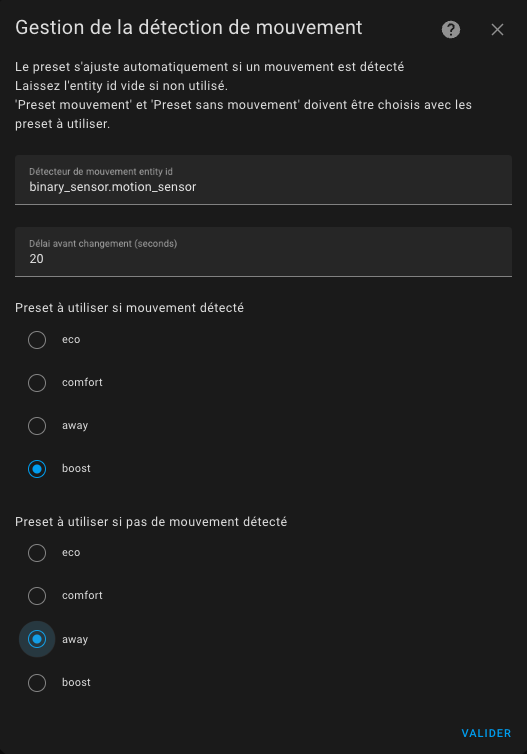
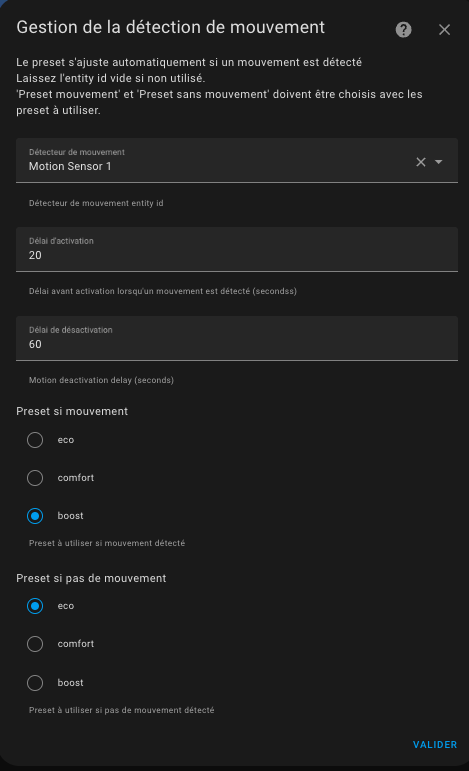
Issue #128 - add motion_off_delay

diff --git a/custom_components/versatile_thermostat/tests/test_movement.py b/custom_components/versatile_thermostat/tests/test_movement.py
@@ -43,10 +43,11 @@ async def test_movement_management_time_not_enough(
             CONF_TPI_COEF_INT: 0.3,
             CONF_TPI_COEF_EXT: 0.01,
             CONF_MINIMAL_ACTIVATION_DELAY: 30,
-            CONF_SECURITY_DELAY_MIN: 5,
+            CONF_SECURITY_DELAY_MIN: 10,
             CONF_SECURITY_MIN_ON_PERCENT: 0.3,
             CONF_MOTION_SENSOR: "binary_sensor.mock_motion_sensor",
-            CONF_MOTION_DELAY: 0,  # important to not been obliged to wait
+            CONF_MOTION_DELAY: 10,  # important to not been obliged to wait
+            CONF_MOTION_OFF_DELAY: 30,
             CONF_MOTION_PRESET: "boost",
             CONF_NO_MOTION_PRESET: "comfort",
             CONF_PRESENCE_SENSOR: "binary_sensor.mock_presence_sensor",
@@ -61,7 +62,7 @@ async def test_movement_management_time_not_enough(
     tz = get_tz(hass)  # pylint: disable=invalid-name
     now: datetime = datetime.now(tz=tz)
 
-    # start heating, in boost mode. We block the control_heating to avoid running a cycle
+    # start heating, in boost mode, when someone is present. We block the control_heating to avoid running a cycle
     with patch(
         "custom_components.versatile_thermostat.climate.VersatileThermostat._async_control_heating"
     ):
@@ -75,14 +76,14 @@ async def test_movement_management_time_not_enough(
         assert entity.motion_state is None
         assert entity.presence_state is None
 
-        event_timestamp = now - timedelta(minutes=4)
+        event_timestamp = now - timedelta(minutes=5)
         await send_temperature_change_event(entity, 18, event_timestamp)
         await send_ext_temperature_change_event(entity, 10, event_timestamp)
 
         await send_presence_change_event(entity, True, False, event_timestamp)
         assert entity.presence_state is "on"
 
-    # starts detecting motion
+    # starts detecting motion with time not enough
     with patch(
         "custom_components.versatile_thermostat.climate.VersatileThermostat.send_event"
     ) as mock_send_event, patch(
@@ -91,17 +92,21 @@ async def test_movement_management_time_not_enough(
         "custom_components.versatile_thermostat.underlyings.UnderlyingSwitch.turn_off"
     ) as mock_heater_off, patch(
         "custom_components.versatile_thermostat.underlyings.UnderlyingSwitch.is_device_active",
-        return_value=True,
+        return_value=False,
     ), patch(
         "homeassistant.helpers.condition.state", return_value=False
-    ):
-        event_timestamp = now - timedelta(minutes=3)
-        await send_motion_change_event(entity, True, False, event_timestamp)
+    ) as mock_condition:
+        event_timestamp = now - timedelta(minutes=4)
+        try_condition = await send_motion_change_event(entity, True, False, event_timestamp)
+
+        # Will return False -> we will stay on movement False
+        await try_condition(None)
 
         assert entity.hvac_mode is HVACMode.HEAT
         assert entity.preset_mode is PRESET_ACTIVITY
         # because no motion is detected yet
         assert entity.target_temperature == 18
+        # state is not changed if time is not enough
         assert entity.motion_state is None
         assert entity.presence_state is "on"
 
@@ -111,7 +116,65 @@ async def test_movement_management_time_not_enough(
         assert mock_heater_off.call_count == 0
         assert mock_send_event.call_count == 0
 
-    # stop detecting motion with confirmation of stop
+    # starts detecting motion with time enough this time
+    with patch(
+        "custom_components.versatile_thermostat.climate.VersatileThermostat.send_event"
+    ) as mock_send_event, patch(
+        "custom_components.versatile_thermostat.underlyings.UnderlyingSwitch.turn_on"
+    ) as mock_heater_on, patch(
+        "custom_components.versatile_thermostat.underlyings.UnderlyingSwitch.turn_off"
+    ) as mock_heater_off, patch(
+        "custom_components.versatile_thermostat.underlyings.UnderlyingSwitch.is_device_active",
+        return_value=False,
+    ), patch(
+        "homeassistant.helpers.condition.state", return_value=True
+    ) as mock_condition:
+        event_timestamp = now - timedelta(minutes=3)
+        try_condition = await send_motion_change_event(entity, True, False, event_timestamp)
+
+        # Will return True -> we will switch to movement On
+        await try_condition(None)
+
+        assert entity.hvac_mode is HVACMode.HEAT
+        assert entity.preset_mode is PRESET_ACTIVITY
+        # because motion is detected yet
+        assert entity.target_temperature == 19
+        assert entity.motion_state is "on"
+        assert entity.presence_state is "on"
+
+    # stop detecting motion with off delay too low
+    with patch(
+        "custom_components.versatile_thermostat.climate.VersatileThermostat.send_event"
+    ) as mock_send_event, patch(
+        "custom_components.versatile_thermostat.underlyings.UnderlyingSwitch.turn_on"
+    ) as mock_heater_on, patch(
+        "custom_components.versatile_thermostat.underlyings.UnderlyingSwitch.turn_off"
+    ) as mock_heater_off, patch(
+        "custom_components.versatile_thermostat.underlyings.UnderlyingSwitch.is_device_active",
+        return_value=True,
+    ) as mock_device_active, patch(
+        "homeassistant.helpers.condition.state", return_value=False
+    ) as mock_condition:
+        event_timestamp = now - timedelta(minutes=2)
+        try_condition = await send_motion_change_event(entity, False, True, event_timestamp)
+
+         # Will return False -> we will stay to movement On
+        await try_condition(None)
+
+        assert entity.hvac_mode is HVACMode.HEAT
+        assert entity.preset_mode is PRESET_ACTIVITY
+        # because no motion is detected yet
+        assert entity.target_temperature == 19
+        assert entity.motion_state is "on"
+        assert entity.presence_state is "on"
+
+        assert mock_send_event.call_count == 0
+        # The heater must heat now
+        assert mock_heater_on.call_count == 1
+        assert mock_heater_off.call_count == 0
+        assert mock_send_event.call_count == 0
+
+    # stop detecting motion with off delay enough long
     with patch(
         "custom_components.versatile_thermostat.climate.VersatileThermostat.send_event"
     ) as mock_send_event, patch(
@@ -124,8 +187,11 @@ async def test_movement_management_time_not_enough(
     ) as mock_device_active, patch(
         "homeassistant.helpers.condition.state", return_value=True
     ) as mock_condition:
-        event_timestamp = now - timedelta(minutes=2)
-        await send_motion_change_event(entity, False, True, event_timestamp)
+        event_timestamp = now - timedelta(minutes=1)
+        try_condition = await send_motion_change_event(entity, False, True, event_timestamp)
+
+         # Will return True -> we will switch to movement Off
+        await try_condition(None)
 
         assert entity.hvac_mode is HVACMode.HEAT
         assert entity.preset_mode is PRESET_ACTIVITY
@@ -135,9 +201,8 @@ async def test_movement_management_time_not_enough(
         assert entity.presence_state is "on"
 
         assert mock_send_event.call_count == 0
-        # Change is not confirmed
+        # The heater must stop heating now
         assert mock_heater_on.call_count == 0
-        # Because device is active
         assert mock_heater_off.call_count == 1
         assert mock_send_event.call_count == 0
 

diff --git a/custom_components/versatile_thermostat/climate.py b/custom_components/versatile_thermostat/climate.py
@@ -95,6 +95,7 @@ from .const import (
     CONF_WINDOW_AUTO_MAX_DURATION,
     CONF_MOTION_SENSOR,
     CONF_MOTION_DELAY,
+    CONF_MOTION_OFF_DELAY,
     CONF_MOTION_PRESET,
     CONF_NO_MOTION_PRESET,
     CONF_DEVICE_POWER,
@@ -399,6 +400,10 @@ class VersatileThermostat(ClimateEntity, RestoreEntity):
 
         self._motion_sensor_entity_id = entry_infos.get(CONF_MOTION_SENSOR)
         self._motion_delay_sec = entry_infos.get(CONF_MOTION_DELAY)
+        self._motion_off_delay_sec = entry_infos.get(CONF_MOTION_OFF_DELAY)
+        if not self._motion_off_delay_sec:
+            self._motion_off_delay_sec = self._motion_delay_sec
+
         self._motion_preset = entry_infos.get(CONF_MOTION_PRESET)
         self._no_motion_preset = entry_infos.get(CONF_NO_MOTION_PRESET)
         self._motion_on = (
@@ -1532,7 +1537,7 @@ class VersatileThermostat(ClimateEntity, RestoreEntity):
                     self.hass,
                     self._motion_sensor_entity_id,
                     new_state.state,
-                    timedelta(seconds=self._motion_delay_sec),
+                    timedelta(seconds=delay),
                 )
             except ConditionError:
                 long_enough = False
@@ -1567,8 +1572,11 @@ class VersatileThermostat(ClimateEntity, RestoreEntity):
         if self._motion_call_cancel:
             self._motion_call_cancel()
             self._motion_call_cancel = None
+
+        # Delay
+        delay = self._motion_delay_sec if new_state.state == STATE_ON else self._motion_off_delay_sec
         self._motion_call_cancel = async_call_later(
-            self.hass, timedelta(seconds=self._motion_delay_sec), try_motion_condition
+            self.hass, timedelta(seconds=delay), try_motion_condition
         )
 
         # For testing purpose we need to access the inner function

diff --git a/custom_components/versatile_thermostat/tests/test_config_flow.py b/custom_components/versatile_thermostat/tests/test_config_flow.py
@@ -157,38 +157,6 @@ async def test_user_config_flow_over_climate(hass: HomeAssistant, skip_hass_stat
         result["flow_id"], user_input=MOCK_PRESETS_CONFIG
     )
 
-    # assert result["type"] == data_entry_flow.RESULT_TYPE_FORM
-    # assert result["step_id"] == "window"
-    # assert result["errors"] == {}
-
-    # result = await hass.config_entries.flow.async_configure(
-    #     result["flow_id"], user_input=MOCK_WINDOW_CONFIG
-    # )
-
-    # assert result["type"] == data_entry_flow.RESULT_TYPE_FORM
-    # assert result["step_id"] == "motion"
-    # assert result["errors"] == {}
-
-    # result = await hass.config_entries.flow.async_configure(
-    #     result["flow_id"], user_input=MOCK_MOTION_CONFIG
-    # )
-
-    # assert result["type"] == data_entry_flow.RESULT_TYPE_FORM
-    # assert result["step_id"] == "power"
-    # assert result["errors"] == {}
-
-    # result = await hass.config_entries.flow.async_configure(
-    #     result["flow_id"], user_input=MOCK_POWER_CONFIG
-    # )
-
-    # assert result["type"] == data_entry_flow.RESULT_TYPE_FORM
-    # assert result["step_id"] == "presence"
-    # assert result["errors"] == {}
-
-    # result = await hass.config_entries.flow.async_configure(
-    #     result["flow_id"], user_input=MOCK_PRESENCE_CONFIG
-    # )
-
     assert result["type"] == data_entry_flow.RESULT_TYPE_FORM
     assert result["step_id"] == "advanced"
     assert result["errors"] == {}

diff --git a/custom_components/versatile_thermostat/config_flow.py b/custom_components/versatile_thermostat/config_flow.py
@@ -55,6 +55,7 @@ from .const import (
     CONF_WINDOW_AUTO_OPEN_THRESHOLD,
     CONF_MOTION_SENSOR,
     CONF_MOTION_DELAY,
+    CONF_MOTION_OFF_DELAY,
     CONF_MOTION_PRESET,
     CONF_NO_MOTION_PRESET,
     CONF_DEVICE_POWER,
@@ -292,6 +293,7 @@ class VersatileThermostatBaseConfigFlow(FlowHandler):
                     ),
                 ),
                 vol.Optional(CONF_MOTION_DELAY, default=30): cv.positive_int,
+                vol.Optional(CONF_MOTION_OFF_DELAY, default=300): cv.positive_int,
                 vol.Optional(CONF_MOTION_PRESET, default="comfort"): vol.In(
                     CONF_PRESETS_SELECTIONABLE
                 ),

diff --git a/custom_components/versatile_thermostat/tests/const.py b/custom_components/versatile_thermostat/tests/const.py
@@ -40,6 +40,7 @@ from custom_components.versatile_thermostat.const import (
     CONF_WINDOW_AUTO_MAX_DURATION,
     CONF_MOTION_SENSOR,
     CONF_MOTION_DELAY,
+    CONF_MOTION_OFF_DELAY,
     CONF_MOTION_PRESET,
     CONF_NO_MOTION_PRESET,
     CONF_POWER_SENSOR,
@@ -136,6 +137,7 @@ MOCK_WINDOW_AUTO_CONFIG = {
 MOCK_MOTION_CONFIG = {
     CONF_MOTION_SENSOR: "input_boolean.motion_sensor",
     CONF_MOTION_DELAY: 10,
+    CONF_MOTION_OFF_DELAY: 30,
     CONF_MOTION_PRESET: PRESET_COMFORT,
     CONF_NO_MOTION_PRESET: PRESET_ECO,
 }

diff --git a/custom_components/versatile_thermostat/const.py b/custom_components/versatile_thermostat/const.py
@@ -49,6 +49,7 @@ CONF_CYCLE_MIN = "cycle_min"
 CONF_PROP_FUNCTION = "proportional_function"
 CONF_WINDOW_DELAY = "window_delay"
 CONF_MOTION_DELAY = "motion_delay"
+CONF_MOTION_OFF_DELAY = "motion_off_delay"
 CONF_MOTION_PRESET = "motion_preset"
 CONF_NO_MOTION_PRESET = "no_motion_preset"
 CONF_TPI_COEF_INT = "tpi_coef_int"

diff --git a/README-fr.md b/README-fr.md
@@ -55,6 +55,7 @@ Ce composant personnalisé pour Home Assistant est une mise à niveau et est une
 
 
 > ![Nouveau](https://github.com/jmcollin78/versatile_thermostat/blob/main/images/new-icon.png?raw=true) _*Nouveautés*_
+> * **Release 3.6**: Ajout du paramètre `motion_off_delay` pour la gestion de l'activité.
 > * **Release 3.5**: Plusieurs thermostats sont possibles en "thermostat over climate" mode [#113](https://github.com/jmcollin78/versatile_thermostat/issues/113)
 > * **Release 3.4**: bug fix et exposition des preset temperatures pour le mode AC [#103](https://github.com/jmcollin78/versatile_thermostat/issues/103)
 > * **Release 3.3**: ajout du mode Air Conditionné (AC). Cette fonction vous permet d'utiliser le mode AC de votre thermostat sous-jacent. Pour l'utiliser, vous devez cocher l'option "Uitliser le mode AC" et définir les valeurs de température pour les presets et pour les presets en cas d'absence
@@ -242,17 +243,20 @@ Si vous avez choisi la fonctionnalité ```Avec détection de mouvement```, cliqu
 Nous allons maintenant voir comment configurer le nouveau mode Activité.
 Ce dont nous avons besoin:
 - un **capteur de mouvement**. ID d'entité d'un capteur de mouvement. Les états du capteur de mouvement doivent être « on » (mouvement détecté) ou « off » (aucun mouvement détecté)
-- une durée de **délai de mouvement** (en secondes) définissant combien de temps nous attendons la confirmation du mouvement avant de considérer le mouvement
+- une durée de **délai de mouvement** (en secondes) définissant combien de temps nous attendons la confirmation du mouvement avant de considérer le mouvement. Ce paramètre peut être supérieur à la temporision de votre détecteur de mouvement, sinon la détection se fera à chaque mouvement signalé par le détecteur,
+- une durée de fin **délai de mouvement** (en secondes) définissant combien de temps nous attendons la confirmation d'une fin de mouvement avant de ne plus considérer le mouvement.
 - un **préréglage de "mouvement" **. Nous utiliserons la température de ce préréglage lorsqu'une activité sera détectée.
 - un **préréglage "pas de mouvement"**. Nous utiliserons la température de ce deuxième préréglage lorsqu'aucune activité n'est détectée.
 
 Alors imaginons que nous voulions avoir le comportement suivant :
-- nous avons une pièce avec un thermostat réglé en mode activité, le mode "mouvement" choisi est confort (21.5C), le mode "pas de mouvement" choisi est Eco (18.5C) et la temporisation du mouvement est de 5 min.
-- la pièce est vide depuis un moment (aucune activité détectée), la température de cette pièce est de 18,5 C
-- quelqu'un entre dans la pièce, une activité est détectée la température est fixée à 21,5 C
-- la personne quitte la chambre, au bout de 5 min la température est ramenée à 18,5 C
+- nous avons une pièce avec un thermostat réglé en mode activité, le mode "mouvement" choisi est confort (21,5°C), le mode "pas de mouvement" choisi est Eco (18.5°C) et la temporisation du mouvement est de 30 sec lors de la détection et de 5 minutes sur fin de détection.
+- la pièce est vide depuis un moment (aucune activité détectée), la température de cette pièce est de 18,5°
+- quelqu'un entre dans la pièce, une activité est détectée si le mouvement est présent pendant au moins 30 sec. La température passe alors à 21,5°
+- si le mouvement est présent pendant moins de 30 sec (passage rapide), la température reste sur 18,5°,
+- imaginons que la température soit passée sur 21,5°, lorsque la personne quitte la pièce, au bout de 5 min la température est ramenée à 18,5°.
+- si la personne revient avant les 5 minutes, la température reste sur 21,5°
 
-Pour que cela fonctionne, le thermostat climatique doit être en mode préréglé « Activité ».
+Pour que cela fonctionne, le thermostat doit être en mode préréglé « Activité ».
 
 > ![Astuce](https://github.com/jmcollin78/versatile_thermostat/blob/main/images/tips.png?raw=true) _*Notes*_
     1. Sachez que comme pour les autres modes prédéfinis, ``Activity`` ne sera proposé que s'il est correctement configuré. En d'autres termes, les 4 clés de configuration doivent être définies si vous souhaitez voir l'activité dans l'interface de l'assistant domestique
@@ -354,7 +358,8 @@ Voir [exemple de réglages](#examples-tuning) pour avoir des exemples de réglag
 | ``window_auto_close_threshold`` | Seuil bas de chute de température pour la fin de détection automatique (en °/min) | X | X |
 | ``window_auto_max_duration`` | Durée maximum d'une extinction automatique (en min) | X | X |
 | ``motion_sensor_entity_id`` | Détecteur de mouvement entity id | X | X |
-| ``motion_delay`` | Délai avant changement (seconds) | X | X |
+| ``motion_delay`` | Délai avant prise en compte du mouvement (seconds) | X | X |
+| ``motion_off_delay`` | Délai avant prise en compte de la fin de mouvement (seconds) | X | X |
 | ``motion_preset`` | Preset à utiliser si mouvement détecté | X | X |
 | ``no_motion_preset`` | Preset à utiliser si pas de mouvement détecté | X | X |
 | ``power_sensor_entity_id`` | Capteur de puissance totale (entity id) | X | X |

diff --git a/README.md b/README.md
@@ -54,6 +54,7 @@
 This custom component for Home Assistant is an upgrade and is a complete rewrite of the component "Awesome thermostat" (see [Github](https://github.com/dadge/awesome_thermostat)) with addition of features.
 
 >![New](https://github.com/jmcollin78/versatile_thermostat/blob/main/images/new-icon.png?raw=true) _*News*_
+> * **Release 3.6**: Add a `motion_off_delay` parameter for activity management,
 > * **Release 3.5**: Multiple thermostats when using "thermostat over another thermostat" mode [#113](https://github.com/jmcollin78/versatile_thermostat/issues/113)
 > * **Release 3.4**: bug fixes and expose preset temperatures for AC mode [#103](https://github.com/jmcollin78/versatile_thermostat/issues/103)
 > * **Release 3.3**: add the Air Conditionned mode (AC). This feature allow to use the eventual AC mode of your underlying climate entity. You have to check the "Use AC mode" checkbox in configuration and give preset temperature value for AC mode and AC mode when absent if absence is configured
@@ -228,15 +229,17 @@ We will now see how to configure the new Activity mode.
 What we need:
 - a **motion sensor**. The entity id of a motion sensor. Motion sensor states should be 'on' (motion detected) or 'off' (no motion detected)
 - a **motion delay** (in seconds) duration defining how long we wait for motion confirmation before considering the motion
+- a **end of motion delay** (in seconds) duration defining how long we wait for end of motion confirmation before considering the end of motion
 - a **target "motion" preset**. We will used the temperature of this preset when an activity is detected.
 - a **target "no motion" preset**. We will used the temperature of this second preset when no activity is detected.
 
-So imagine we want to have the following behavior :
-- we have room with a thermostat set in activity mode, the "motion" mode chosen is comfort (21.5C), the "no motion" mode chosen is Eco (18.5 C) and the motion delay is 5 min.
-- the room is empty for a while (no activity detected), the temperature of this room is 18.5 C
-- somebody enters into the room, an activity is detected the temperature is set to 21.5 C
-- the person leaves the room, after 5 min the temperature is set back to 18.5 C
-
+- we have a room with a thermostat set to activity mode, the "movement" mode chosen is comfort (21.5°C), the "no movement" mode chosen is Eco (18.5°C) and the movement delay is 30 sec during detection and 5 minutes at the end of detection.
+- the room has been empty for a while (no activity detected), the temperature of this room is 18.5°
+- someone enters the room, activity is detected if movement is present for at least 30 seconds. The temperature then rises to 21.5°
+- if the movement is present for less than 30 seconds (rapid passage), the temperature remains at 18.5°,
+- imagine that the temperature has risen to 21.5°, when the person leaves the room, after 5 minutes the temperature is reduced to 18.5°.
+- if the person returns before 5 minutes, the temperature remains at 21.5°
+  
 For this to work, the climate thermostat should be in ``Activity`` preset mode.
 
 > ![Tip](https://github.com/jmcollin78/versatile_thermostat/blob/main/images/tips.png?raw=true)  _*Notes*_
@@ -339,7 +342,8 @@ See [example tuning](#examples-tuning) for common tuning examples
 | ``window_auto_close_threshold`` | Temperature increase threshold for end of automatic detection (in °/min) | X | X |
 | ``window_auto_max_duration`` | Maximum duration of automatic window open detection (in min) | X | X |
 | ``motion_sensor_entity_id`` | Motion sensor entity id | X | X |
-| ``motion_delay`` | Motion delay (seconds) | X | X |
+| ``motion_delay`` | Delay before considering the motion (seconds) | X | X |
+| ``motion_off_delay`` | Delay before considering the end of motion (seconds) | X | X |
 | ``motion_preset`` | Preset to use when motion is detected | X | X |
 | ``no_motion_preset`` | Preset to use when no motion is detected | X | X |
 | ``power_sensor_entity_id`` | Power sensor entity id | X | X |
